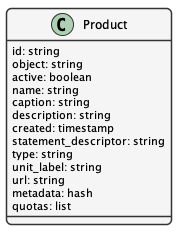
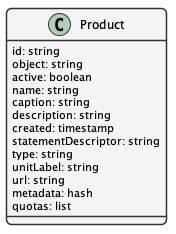
Improve the quota section with more details
Define how quotas are applied for individual and group subjects and how 
resource usage is authorized.  

Fix some underscore typos throughout the document.

Update model images to reflect Quota changes.

diff --git a/membership-plan-management.rst b/membership-plan-management.rst
@@ -63,9 +63,9 @@ Products define the exact DataONE service offered, and describe the features of 
         caption: string
         description: string
         created: timestamp
-        statement_descriptor: string
+        statementDescriptor: string
         type: string
-        unit_label: string
+        unitLabel: string
         url: string
         metadata: hash
         quotas: list
@@ -86,9 +86,9 @@ An example Product:
         "caption": "Small institutions or groups",
         "description": "Create multiple portals for your work and projects. Help others understand and access your data.",
         "created": 1559768309,
-        "statement_descriptor": "DataONE Membership Plan - Organization",
+        "statementDescriptor": "DataONE Membership Plan - Organization",
         "type": "service",
-        "unit_label": "membership",
+        "unitLabel": "membership",
         "url": "https://dataone.org/memberships/organization",
         "metadata": {
             "features": [
@@ -99,8 +99,8 @@ An example Product:
                     "quota": {
                         "object": "quota"
                         "name": "custom_portal_count"
-                        "soft_limit": "3"
-                        "hard_limit": "3"
+                        "softLimit": "3"
+                        "hardLimit": "3"
                         "unit": "portal"
                     }
                 },
@@ -136,7 +136,7 @@ An example Product:
 Customers
 ---------
 
-Customers are associated with a DataONE account (by ORCID), and are associated with Orders, Invoices, Charges, and Quotas based on certain purchased Products.
+Customers are associated with a DataONE account (by ORCID), and are associated with Orders, Invoices, Charges, and Quotas based on certain free or purchased Products.
  
 ..
     @startuml images/customer.png
@@ -153,13 +153,13 @@ Customers are associated with a DataONE account (by ORCID), and are associated w
         description: string
         discount: hash
         email: string
-        invoice_prefix: string
-        invoice_settings: hash
+        invoicePrefix: string
+        invoiceSettings: hash
         metadata: hashes
         name: string
         phone: string
         subscriptions: list
-        tax_exempt: string
+        taxExempt: string
     }
     @enduml
 
@@ -168,7 +168,13 @@ Customers are associated with a DataONE account (by ORCID), and are associated w
 Quotas
 ------
 
-Quotas are limits set for a particular product, such as the number of portals allowed, disk space allowed, etc. Quotas have a soft and hard limit per unit to help with communicating limit warnings.
+Quotas are limits set for a particular product, such as the number of portals allowed, disk space allowed, etc. Quotas have a soft and hard limit per unit to help with communicating limit warnings.  Quotas that are not associated with a ``Subject`` are considered general product quotas used for informational display (part of a Product's Feature list).
+
+Quotas kept for individual ``Subject`` identifiers also include a ``usage`` field that is periodically updated to reflect the ``Subject``'s current usage of the resource, harvested from the Coordinating Node indices.  
+
+.. note::
+    
+    The usage harvest schedule is to be determined, but calculating usage once per hour or once per day may be appropriate.
 
 ..
     @startuml images/quota.png
@@ -178,13 +184,37 @@ Quotas are limits set for a particular product, such as the number of portals al
         id: string
         object: string
         name: string
-        soft_limit: integer
-        hard_limit: integer
+        softLimit: integer
+        hardLimit: integer
+        usage: integer
         unit: string
+        customerId: integer,
+        subject: string
     }
     @enduml
 
 .. image:: images/quota.png
+
+.. note::
+    Quota limits and usages are typed as integers (32 bit) and not longs (64 bit) because of issues related to duck-typing text-based JSON values while unmarshalling quotas.  For this reason, storage quotas are expressed in a unit such as ``megabyte`` so that the stored number is below the max integer (2^31 -1).
+    
+Authorizing resource usage
+~~~~~~~~~~~~~~~~~~~~~~~~~~
+    
+Authorization of resource usage across Member Nodes involves a call to the quota service to determine the soft limit, hard limit, and usage, and throwing an InsufficentResources exception when the usage is at or over the hard limit.  For storage quotas, hard limits might be set to 10% greater than the soft limit, whereas for portal limits, the soft and hard limits might be equal.  These settings can be individually customized as well. Client applications may also check quota limits for a given ``Subject`` before attempting to call an ``MNStorage`` API method (i.e. ``create()`` or ``update``).
+    
+Managing Shared Quotas
+~~~~~~~~~~~~~~~~~~~~~~
+
+Quotas are established when a Customer enrolls for free or paid services.  Customers are associated with their ``Subject`` identifier (e.g. their ORCID identifier), and quotas are set against their this identifier.  When objects are uploaded to DataONE Member Nodes, the ``SystemMetadata.rightsHolder`` field is used to check for quota limits.  In the case of an individual researcher, the client application should set the rightsHolder to the individual's ``Subject`` identifier.
+
+In the case of shared quotas where a resource (like storage) is to be applied to a group of users,
+client applications should set the ``rightsHolder`` field for each object to the DataONE group identifier associated with the shared quota (e.g. ``CN=budden-lab,DC=dataone,DC=org``).  The "owner" of the object (i.e. the ``rightsHolder``) is then used to determine quota usage across the DataONE network.
+
+.. note::
+    Using the ``SystemMetadata.rightsHolder`` field is a simple way to definitively manage quotas for both users and groups, but also has implications on authorization.  This needs discussion.
+
+DataONE 
 
 Orders
 ------
@@ -199,7 +229,7 @@ Orders track Customer purchases of a list of Products, and the total amount of t
         id: string
         object: string
         amount: integer
-        amount_returned: integer
+        amountReturned: integer
         charge: string
         created: timestamp
         currency: string
@@ -208,7 +238,7 @@ Orders track Customer purchases of a list of Products, and the total amount of t
         items: array of hashes
         metadata: hash
         status: string
-        status_transitions: hash
+        statusTransitions: hash
         updated: timestamp
     }
     @enduml
@@ -228,18 +258,18 @@ Charges document transactions against a given payment source, like a credit card
         id: string
         object: string
         amount: integer
-        amount_refunded: integer
+        amountRefunded: integer
         created: timestamp
         currency: string
         customer: string
         description: string
-        failure_code: string
+        failureCode: string
         invoice: string
         metadata: hash
         order: string
         outcome: string
         paid: boolean
-        receipt_email: string
+        receiptEmail: string
         refunded: boolean
         refunds: list
         status: string
